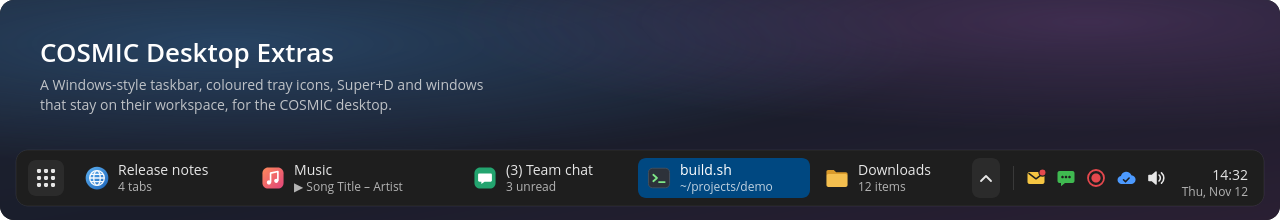
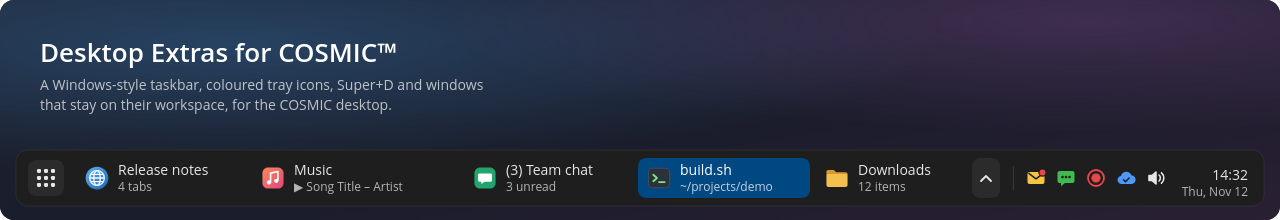
Rename to cosmic-ext-desktop-extras (Desktop Extras for COSMIC™)
The GitHub repo moved to jwillmer/cosmic-ext-desktop-extras, following
the COSMIC trademark policy's cosmic-ext- namespace for third-party
projects. Repo, raw and Pages URLs, the installer's REPO_URL/REPO_SLUG,
the Pages baseurl and the display name follow. The hero and social
images are regenerated with the new title.

The clone folder ~/.local/share/cosmic-desktop-extras, the shortcut
marker, notification names and messages naming that folder stay, so
existing installs keep updating and uninstalling cleanly.

Changed region(s): [[0.0312, 0.1909, 0.3125, 0.3]]

diff --git a/docs/media/src/gen.py b/docs/media/src/gen.py
@@ -95,7 +95,7 @@ def hero():
     W, H = 1280, 220
     b = ""
     # faint window behind
-    b += t(40, 62, "COSMIC Desktop Extras", 26, "#ffffff", 600)
+    b += t(40, 62, "Desktop Extras for COSMIC™", 26, "#ffffff", 600)
     b += t(40, 90, "A Windows-style taskbar, coloured tray icons, Super+D and windows", 14, TXT, op=.8)
     b += t(40, 110, "that stay on their workspace, for the COSMIC desktop.", 14, TXT, op=.8)
     b += hero_panel(W, 150)
@@ -124,11 +124,11 @@ def hero_panel(W, py):
 # 1b social preview (Open Graph, 1200x630) --------------------------------
 def social():
     W, H = 1200, 630
-    b = t(W / 2, 245, "COSMIC Desktop Extras", 64, "#ffffff", 700, anchor="middle")
+    b = t(W / 2, 245, "Desktop Extras for COSMIC™", 64, "#ffffff", 700, anchor="middle")
     b += t(W / 2, 305, "A Windows-style taskbar and more for the COSMIC desktop on Pop!_OS", 26, TXT, anchor="middle", op=.85)
     # the hero panel (1280 wide) scaled to fit with equal margins
     b += f'<g transform="translate(24 405) scale(.9)">{hero_panel(1280, 0)}</g>'
-    return svg(W, H, b, ALL, wall=True, title="COSMIC Desktop Extras: a Windows-style taskbar for the COSMIC desktop")
+    return svg(W, H, b, ALL, wall=True, title="Desktop Extras for COSMIC™: a Windows-style taskbar for the COSMIC desktop")
 
 # 2 taskbar close-up -----------------------------------------------------
 def taskbar():

diff --git a/docs/index.md b/docs/index.md
@@ -25,7 +25,7 @@ Pick the tools you want; each one installs on its own and uninstalls back to sto
 
 <div class="buttons">
   <a class="primary" href="#install">Install</a>
-  <a href="https://github.com/jwillmer/cosmic-desktop-extras">GitHub repository</a>
+  <a href="https://github.com/jwillmer/cosmic-ext-desktop-extras">GitHub repository</a>
   <a href="technical.html">Technical docs</a>
 </div>
 
@@ -53,14 +53,14 @@ Workspace Keeper.
 
 ![Always open on “Work” in the right-click menu, and a pinned app](media/taskbar-pin.svg)
 
-[More about the taskbar](https://github.com/jwillmer/cosmic-desktop-extras/blob/main/taskbar/README.md)
+[More about the taskbar](https://github.com/jwillmer/cosmic-ext-desktop-extras/blob/main/taskbar/README.md)
 
 ### Terminal and Files tab counts
 
 Add-ons for the taskbar: it shows "3 tabs" for COSMIC Terminal windows, and "2 tabs" or "14 items"
 for COSMIC Files windows.
-[Terminal](https://github.com/jwillmer/cosmic-desktop-extras/blob/main/terminal-tabs/README.md) ·
-[Files](https://github.com/jwillmer/cosmic-desktop-extras/blob/main/files-tabs/README.md)
+[Terminal](https://github.com/jwillmer/cosmic-ext-desktop-extras/blob/main/terminal-tabs/README.md) ·
+[Files](https://github.com/jwillmer/cosmic-ext-desktop-extras/blob/main/files-tabs/README.md)
 
 ## Tray colors
 
@@ -69,7 +69,7 @@ monochrome icon.
 
 ![Tray icons before and after](media/tray-colors.svg)
 
-[More about tray colors](https://github.com/jwillmer/cosmic-desktop-extras/blob/main/tray-colors/README.md)
+[More about tray colors](https://github.com/jwillmer/cosmic-ext-desktop-extras/blob/main/tray-colors/README.md)
 
 ## Text Editor
 
@@ -112,7 +112,7 @@ with synchronized scrolling, Notepad++-style clones and Compare.
 **Files and tabs.** Large files open fast. The Open dialog opens a path you type or paste, the tab
 menu copies a file's path or opens its folder, and the sidebar can be resized.
 
-[More about the Text Editor](https://github.com/jwillmer/cosmic-desktop-extras/blob/main/text-editor/README.md)
+[More about the Text Editor](https://github.com/jwillmer/cosmic-ext-desktop-extras/blob/main/text-editor/README.md)
 
 ## Workspace Keeper
 
@@ -122,7 +122,7 @@ there: start a pinned chat app from anywhere and you land on your work workspace
 
 ![Windows back on their workspaces](media/ws-keeper.svg)
 
-[More about Workspace Keeper](https://github.com/jwillmer/cosmic-desktop-extras/blob/main/ws-keeper/README.md)
+[More about Workspace Keeper](https://github.com/jwillmer/cosmic-ext-desktop-extras/blob/main/ws-keeper/README.md)
 
 ## Show Desktop
 
@@ -131,28 +131,28 @@ come back, with the window you were in on top.
 
 ![Super+D before and after](media/show-desktop.svg)
 
-[More about Show Desktop](https://github.com/jwillmer/cosmic-desktop-extras/blob/main/show-desktop/README.md)
+[More about Show Desktop](https://github.com/jwillmer/cosmic-ext-desktop-extras/blob/main/show-desktop/README.md)
 
 ## Install
 
 Open a terminal and run:
 
 ```sh
-curl -fsSL https://raw.githubusercontent.com/jwillmer/cosmic-desktop-extras/main/install.sh | bash
+curl -fsSL https://raw.githubusercontent.com/jwillmer/cosmic-ext-desktop-extras/main/install.sh | bash
 ```
 
 A menu lets you pick the tools. Uninstall any tool with `./install.sh --uninstall <tool>`.
 Everything installs for your user only; no system files are replaced. Tested on Pop!_OS 24.04
 with COSMIC. Build steps, requirements and the FAQ:
-[README on GitHub](https://github.com/jwillmer/cosmic-desktop-extras#quick-install).
+[README on GitHub](https://github.com/jwillmer/cosmic-ext-desktop-extras#quick-install).
 
 ## Learn more
 
-- [Source code and issues on GitHub](https://github.com/jwillmer/cosmic-desktop-extras)
+- [Source code and issues on GitHub](https://github.com/jwillmer/cosmic-ext-desktop-extras)
 - [Blog post: why and how it was built](https://jwillmer.de/blog/projects/cosmic-desktop-extras.html)
 - [Blog post: a Notepad++-style Text Editor for COSMIC](https://jwillmer.de/blog/projects/cosmic-text-editor.html)
 - [Blog post: COSMIC Text Editor, from reading Markdown to writing it](https://jwillmer.de/blog/projects/cosmic-text-editor-writing-markdown.html)
-- [Requests to COSMIC upstream](https://github.com/jwillmer/cosmic-desktop-extras#upstream-requests): the features proposed for COSMIC itself, and the [Show and tell discussion](https://github.com/pop-os/cosmic-epoch/discussions/4002)
+- [Requests to COSMIC upstream](https://github.com/jwillmer/cosmic-ext-desktop-extras#upstream-requests): the features proposed for COSMIC itself, and the [Show and tell discussion](https://github.com/pop-os/cosmic-epoch/discussions/4002)
 - [Technical documentation](technical.md): how each tool works, installed files, settings, patch maintenance, tests
 - [For app developers](launcher-entry.md): put your own text on the taskbar's second line
 

diff --git a/README.md b/README.md
@@ -1,6 +1,6 @@
-# COSMIC Desktop Extras
+# Desktop Extras for COSMIC™
 
-Website: [jwillmer.github.io/cosmic-desktop-extras](https://jwillmer.github.io/cosmic-desktop-extras/) ·
+Website: [jwillmer.github.io/cosmic-ext-desktop-extras](https://jwillmer.github.io/cosmic-ext-desktop-extras/) ·
 Blog posts: [why and how it was built](https://jwillmer.de/blog/projects/cosmic-desktop-extras.html) ·
 [the Text Editor](https://jwillmer.de/blog/projects/cosmic-text-editor.html) ·
 [writing Markdown in the Text Editor](https://jwillmer.de/blog/projects/cosmic-text-editor-writing-markdown.html)
@@ -10,6 +10,8 @@ few small helpers.
 
 _An unofficial, personal project for the COSMIC™ desktop. It is not affiliated with or endorsed by
 System76. COSMIC is a trademark of System76; see its [trademark policy](https://github.com/pop-os/cosmic-epoch/blob/master/TRADEMARK.md)._
+
+Formerly `cosmic-desktop-extras`; old links redirect.
 
 - **Taskbar:** see every window on your workspace at a glance with live previews, and move windows
   between workspaces from a right-click.
@@ -135,14 +137,14 @@ Install: `./install.sh show-desktop` · [More about Show Desktop](show-desktop/R
 Open a terminal and run:
 
 ```sh
-curl -fsSL https://raw.githubusercontent.com/jwillmer/cosmic-desktop-extras/main/install.sh | bash
+curl -fsSL https://raw.githubusercontent.com/jwillmer/cosmic-ext-desktop-extras/main/install.sh | bash
 ```
 
 A menu lets you pick the tools; Taskbar, Workspace Keeper and Show Desktop are preselected. To skip the menu, name the
 tools:
 
 ```sh
-curl -fsSL https://raw.githubusercontent.com/jwillmer/cosmic-desktop-extras/main/install.sh | bash -s -- taskbar ws-keeper
+curl -fsSL https://raw.githubusercontent.com/jwillmer/cosmic-ext-desktop-extras/main/install.sh | bash -s -- taskbar ws-keeper
 ```
 
 The one-liner clones the repo to `~/.local/share/cosmic-desktop-extras`. The tools link into that
@@ -151,8 +153,8 @@ folder, so leave it in place.
 Prefer to look before you run? Clone the repo and use the installer from there:
 
 ```sh
-git clone https://github.com/jwillmer/cosmic-desktop-extras.git
-cd cosmic-desktop-extras
+git clone https://github.com/jwillmer/cosmic-ext-desktop-extras.git
+cd cosmic-ext-desktop-extras
 ./install.sh --dry-run all     # show what would happen
 ./install.sh                   # menu
 ```

diff --git a/AGENTS.md b/AGENTS.md
@@ -97,7 +97,7 @@ Without a clone, the one-liner clones to `~/.local/share/cosmic-desktop-extras` 
 there (that folder must stay; the tools link into it):
 
 ```sh
-curl -fsSL https://raw.githubusercontent.com/jwillmer/cosmic-desktop-extras/main/install.sh | bash -s -- taskbar ws-keeper
+curl -fsSL https://raw.githubusercontent.com/jwillmer/cosmic-ext-desktop-extras/main/install.sh | bash -s -- taskbar ws-keeper
 ```
 
 Run the installer in a terminal the user can see: it may ask to install build packages with

diff --git a/docs/text-editor.md b/docs/text-editor.md
@@ -700,4 +700,4 @@ Feature requests: [cosmic-edit #247](https://github.com/pop-os/cosmic-edit/issue
 preview), [cosmic-edit #94](https://github.com/pop-os/cosmic-edit/issues/94) (session restore),
 [cosmic-edit #495](https://github.com/pop-os/cosmic-edit/issues/495) (file diff). Where this
 editor is shown upstream and in the community is tracked in
-[#1](https://github.com/jwillmer/cosmic-desktop-extras/issues/1).
+[#1](https://github.com/jwillmer/cosmic-ext-desktop-extras/issues/1).

diff --git a/taskbar/README.md b/taskbar/README.md
@@ -56,7 +56,7 @@ The taskbar is a working example for these COSMIC feature requests:
 Or without cloning first:
 
 ```sh
-curl -fsSL https://raw.githubusercontent.com/jwillmer/cosmic-desktop-extras/main/install.sh | bash -s -- taskbar
+curl -fsSL https://raw.githubusercontent.com/jwillmer/cosmic-ext-desktop-extras/main/install.sh | bash -s -- taskbar
 ```
 
 The taskbar is compiled from System76's source for the COSMIC version you have installed. The

diff --git a/docs/technical.md b/docs/technical.md
@@ -1,6 +1,6 @@
 ---
 title: Technical documentation
-description: How the COSMIC Desktop Extras tools work, which files they install, their settings, patch maintenance and tests.
+description: How the Desktop Extras for COSMIC™ tools work, which files they install, their settings, patch maintenance and tests.
 ---
 
 {%- comment -%}
